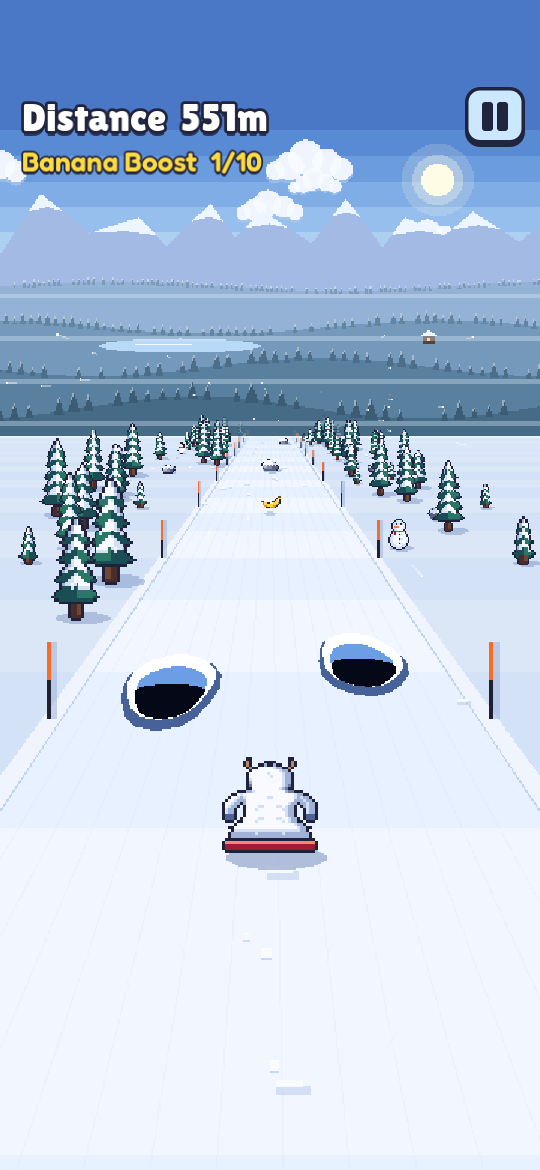
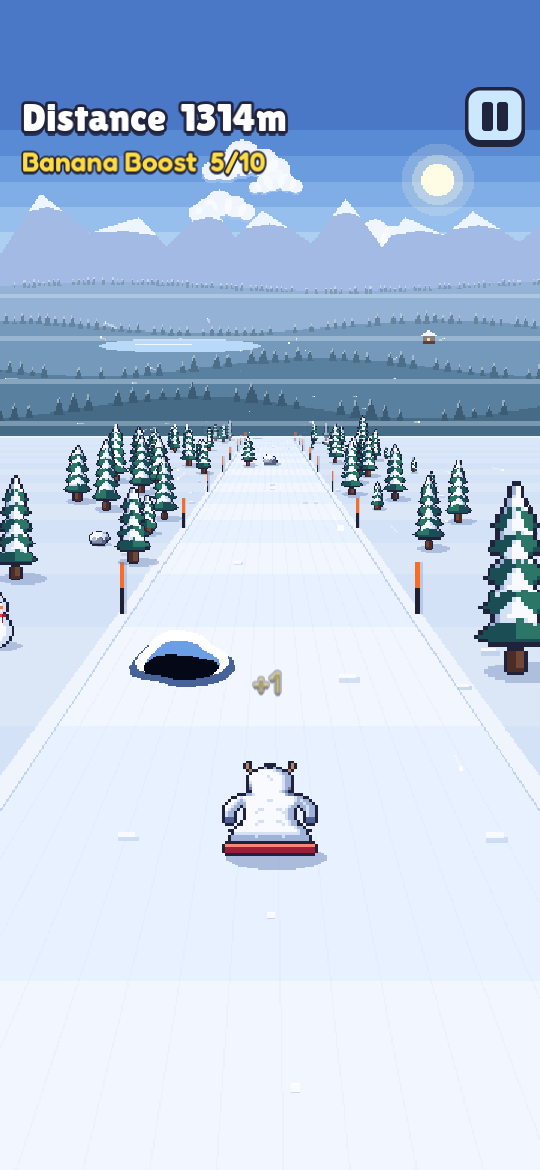
New screenshots with the lumpy holes: big air up top, a single hole below

diff --git a/index.html b/index.html
@@ -51,14 +51,14 @@
         <p class="pitch">A pixel-art downhill runner for iPhone and Android. Tap left, tap right, try not to hit the tree.</p>
         <span class="pill">Coming soon to the App Store &amp; Google Play</span>
       </div>
-      <div class="ha-phone"><img class="pixel" src="img/gameplay_boost.png" alt="Oh Yeti! gameplay: the yeti glowing gold in a Banana Boost, two holes ahead" width="540" height="1170"></div>
+      <div class="ha-phone"><img class="pixel" src="img/gameplay_hero.png" alt="Oh Yeti! gameplay: the yeti catching big air off a ramp, grabbing a banana arc" width="540" height="1170"></div>
     </div>
   </header>
 
   <main>
     <section class="showcase">
       <div class="phone">
-        <img class="pixel" src="img/gameplay.png" alt="Oh Yeti! gameplay: the yeti sledding toward two holes in the snow" width="540" height="1170">
+        <img class="pixel" src="img/gameplay.png" alt="Oh Yeti! gameplay: the yeti sledding past a tree toward a hole in the snow" width="540" height="1170">
       </div>
       <div>
         <h2>One yeti. One sled. One very long hill.</h2>
